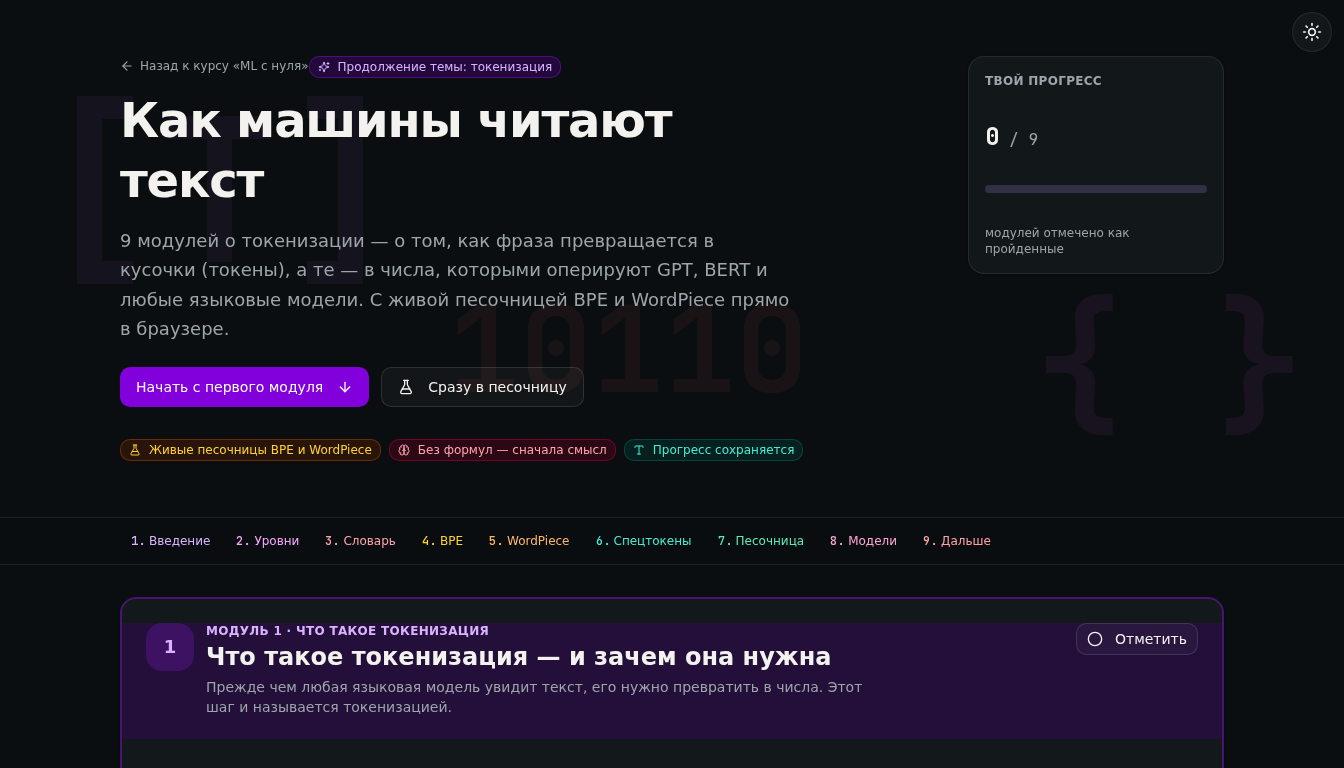
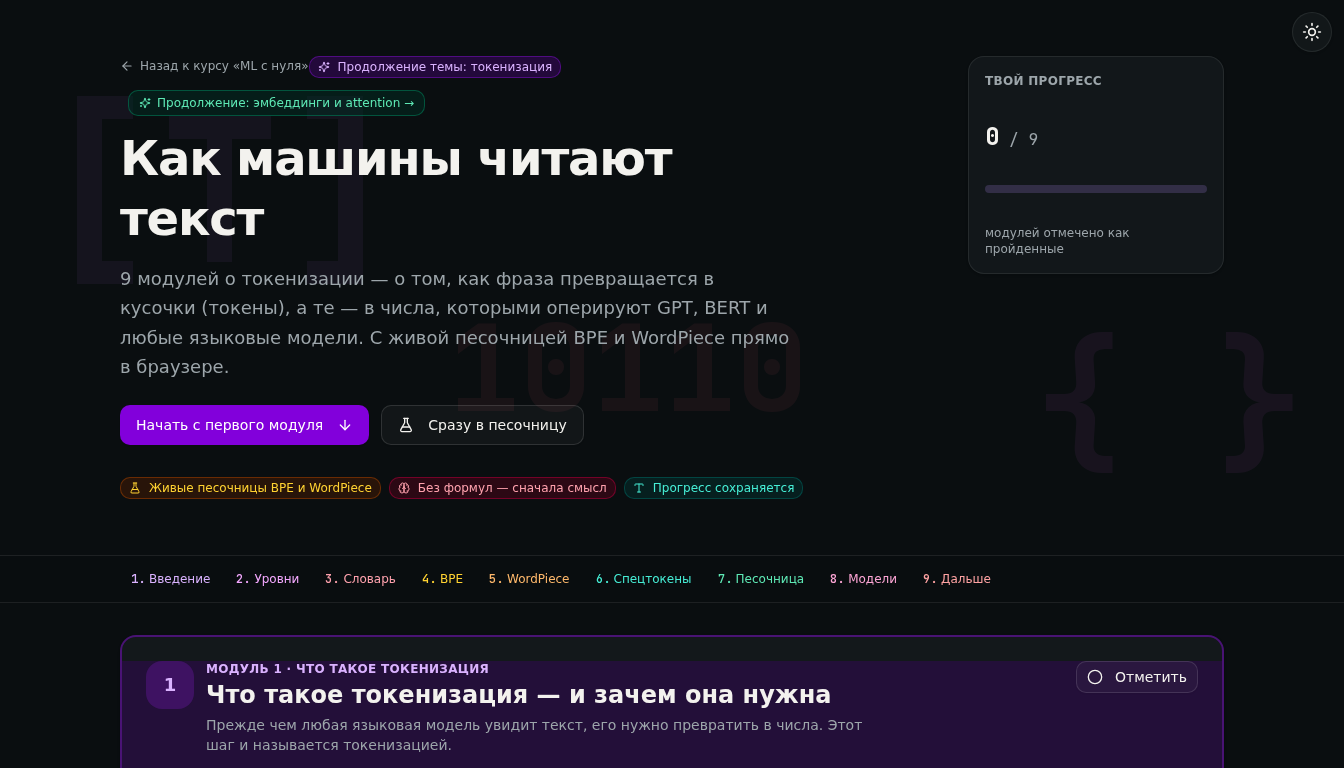
feat: add embeddings-app project card; refresh tokenizatsiya screenshot
- New project entry: _projects/embeddings-app.md — 10 modules on embeddings,
  attention, multi-head, GPT/BERT, SFT/RLHF. Emerald accent (#10b981/#047857)
  to visually distinguish from ml-s-nula (teal) and tokenizatsiya-app (purple).
- Card screenshot: assets/img/projects/embeddings-app.png (1344x768, dark theme)
- Favicon 512x512 in /favicons/ and /assets/img/favicons/ (Jekyll convention)
- Refreshed tokenizatsiya-app.png — now shows the new emerald pill
  'Продолжение: эмбеддинги и attention →' next to the existing purple badge.

diff --git a/_projects/embeddings-app.md b/_projects/embeddings-app.md
@@ -1,0 +1,92 @@
+---
+layout: page
+title: "Эмбеддинги и attention — Как токены становятся смыслом"
+description: "Третий курс серии: 10 модулей о том, что идёт после токенизации — эмбеддинги, cosine similarity, word2vec, positional encoding, self-attention, multi-head attention, GPT/BERT, fine-tuning и RLHF"
+img: assets/img/projects/embeddings-app.png
+icon: favicons/embeddings-app.png
+importance: 1
+category: ии-мл
+demo: https://embeddings-app.vercel.app/
+related_publications: false
+---
+
+Третий интерактивный курс в серии — про то, что происходит после токенизации. Если в предыдущем курсе текст превращался в токены и ID, то здесь эти ID становятся векторами (эмбеддингами), векторы начинают «обращать внимание» друг на друга (attention), и из этого собирается настоящая языковая модель — от базовой GPT до ChatGPT через fine-tuning и RLHF. Десять модулей с живыми песочницами прямо в браузере: 2D-карта эмбеддингов, скользящее окно word2vec, матрица внимания, сравнение base/SFT/RLHF ответов на одном промпте.
+
+### О чём этот курс
+
+После того как понятна токенизация, перед разработчиком NLP-системы открывается следующая большая территория: как из ID токенов получается «смысл», которым оперирует модель. Этот курс проходит по всем ключевым шагам этого пути — от one-hot encoding и плотных векторов до multi-head attention и RLHF. Без этих знаний невозможно читать статьи про трансформеры, разбираться в архитектуре GPT-4 или понимать, что именно делает ChatGPT «выровненным» с человеческими предпочтениями. Каждый модуль снабжён живой песочницей, чтобы потрогать концепцию руками.
+
+### Модули курса
+
+1. **После токенов — что?** — пайплайн языковой модели: кликабельная схема от текста к предсказанию
+2. **Эмбеддинги** — токены становятся векторами: 2D-карта 14 слов с семантическими кластерами
+3. **Cosine similarity** — как измерить «похожесть» векторов: выбор пары слов, метрики, топ-5 соседей
+4. **Word2vec** — как обучаются эмбеддинги: анимация скользящего окна skip-gram и CBOW
+5. **Positional encoding** — почему важен порядок: heatmap синусов/косинусов из оригинальной статьи
+6. **Self-attention** — сердце трансформеров: интерактивная матрица внимания 4×4 с подсветкой связей
+7. **Multi-head attention** — много голов лучше: 3 головы с разными паттернами (синтаксис/кореференция/позиция)
+8. **Языковые модели** — GPT vs BERT: next-token prediction vs masked-token prediction
+9. **Fine-tuning и RLHF** — как базовая LM становится ChatGPT: сравнение base/SFT/RLHF ответов
+10. **Что дальше** — roadmap: scaling laws, MoE, multimodal, agents, interpretability, efficient inference
+
+### Чем отличается от предыдущих курсов
+
+Если «ML с нуля» — это общая теория нейросетей, а «Токенизация» — глубокое погружение в первый шаг пайплайна, то этот курс закрывает оставшуюся часть пути: от готовых токенов до полноценной LLM-ассистентки. Изумрудный акцент визуально отличает третий курс от материнского бирюзового (ml-s-nula) и фиолетового (tokenizatsiya-app). Каждый модуль имеет свой уникальный цвет в навигации, но все они лежат в холодной зелёно-бирюзовой и тёплой янтарно-розовой части спектра.
+
+### Ключевые песочницы
+
+- **2D-карта эмбеддингов** — наведи на слово, увидишь его вектор и семантический кластер
+- **Cosine similarity** — выбери два слова, увидишь угол между векторами и метрики
+- **Анимация word2vec** — запускай скользящее окно по предложению, переключай skip-gram/CBOW
+- **Heatmap positional encoding** — наведи на клетку, увидишь профиль строки и столбца
+- **Матрица self-attention** — наведи, увидишь, кто на кого «смотрит» и с каким весом
+- **Multi-head attention** — переключай головы и сравнивай паттерны внимания
+- **GPT vs BERT** — переключай между next-token prediction и masked-token prediction
+- **Base / SFT / RLHF** — сравни ответы трёх стадий обучения на одном промпте
+
+### Особенности
+
+- **10 модулей с живыми песочницами** — всё работает на чистом React + TypeScript, без бэкенда
+- **Изумрудный акцент** — визуально отличается от ml-s-nula (бирюза) и tokenizatsiya-app (фиолетовый)
+- **Прогресс сохраняется** локально в `localStorage` — твои отметки не теряются между сессиями
+- **Светлая/тёмная тема** с переключателем
+- **Адаптивный дизайн** — работает на мобильных и десктопах
+
+### Стек технологий
+
+- **Frontend**: Next.js 16 (App Router, Turbopack), React 19, TypeScript
+- **Стили**: Tailwind CSS 4 + shadcn/ui, токены тем через CSS-переменные
+- **Иконки**: lucide-react
+- **Хранилище прогресса**: `localStorage` (без серверной части)
+- **Деплой**: Vercel
+
+### Попробовать
+
+👉 [Открыть Эмбеддинги и attention]({{ page.demo }}){: .project-link}
+
+---
+
+**AZAR**
+
+<style>
+.project-link {
+  display: inline-flex;
+  align-items: center;
+  gap: 6px;
+  padding: 8px 20px;
+  background: transparent;
+  color: #10b981 !important;
+  border: 1.5px solid #047857;
+  border-radius: 8px;
+  text-decoration: none !important;
+  font-weight: 500;
+  font-size: 0.875rem;
+  letter-spacing: 0.01em;
+  transition: all 0.2s ease;
+}
+.project-link:hover {
+  background: #047857;
+  color: #fff !important;
+  border-color: #047857;
+}
+</style>
